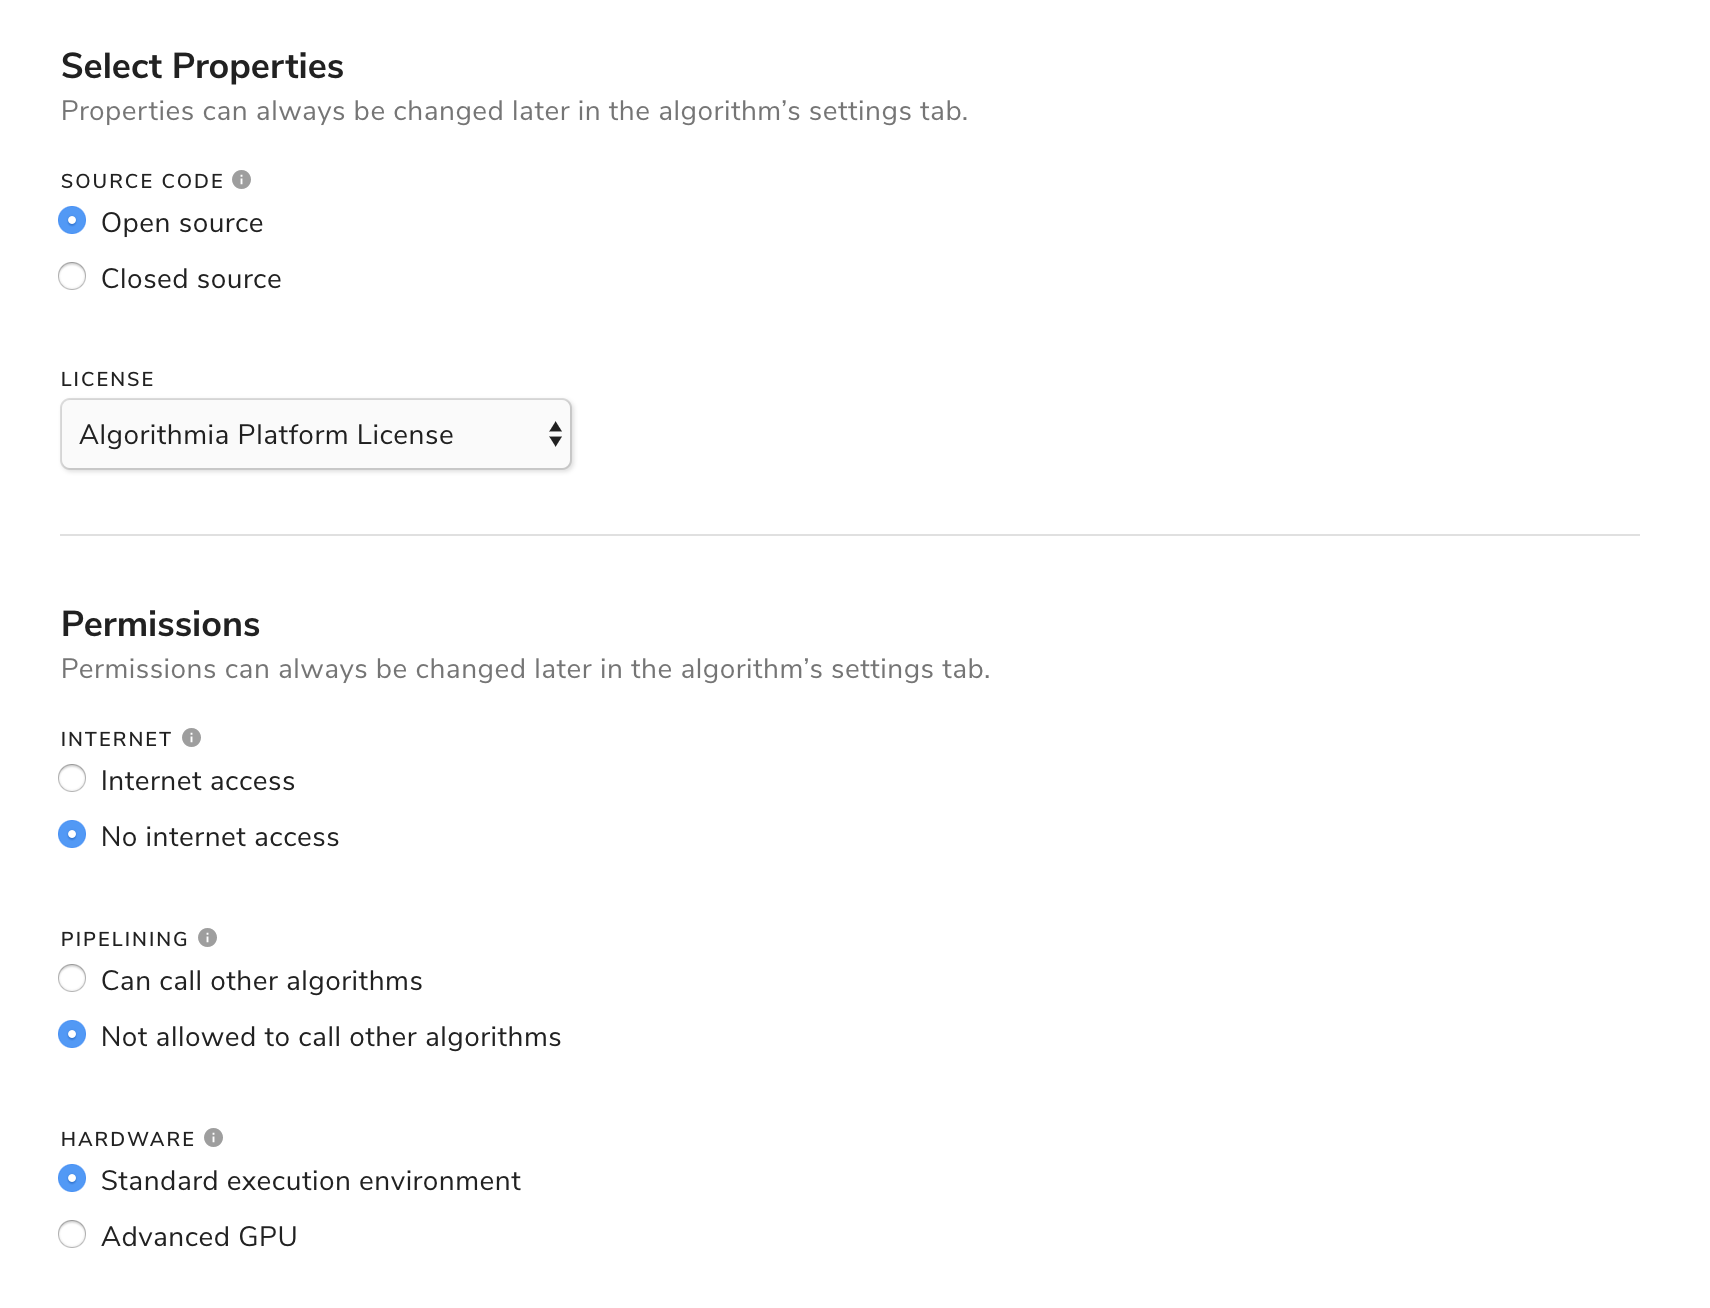
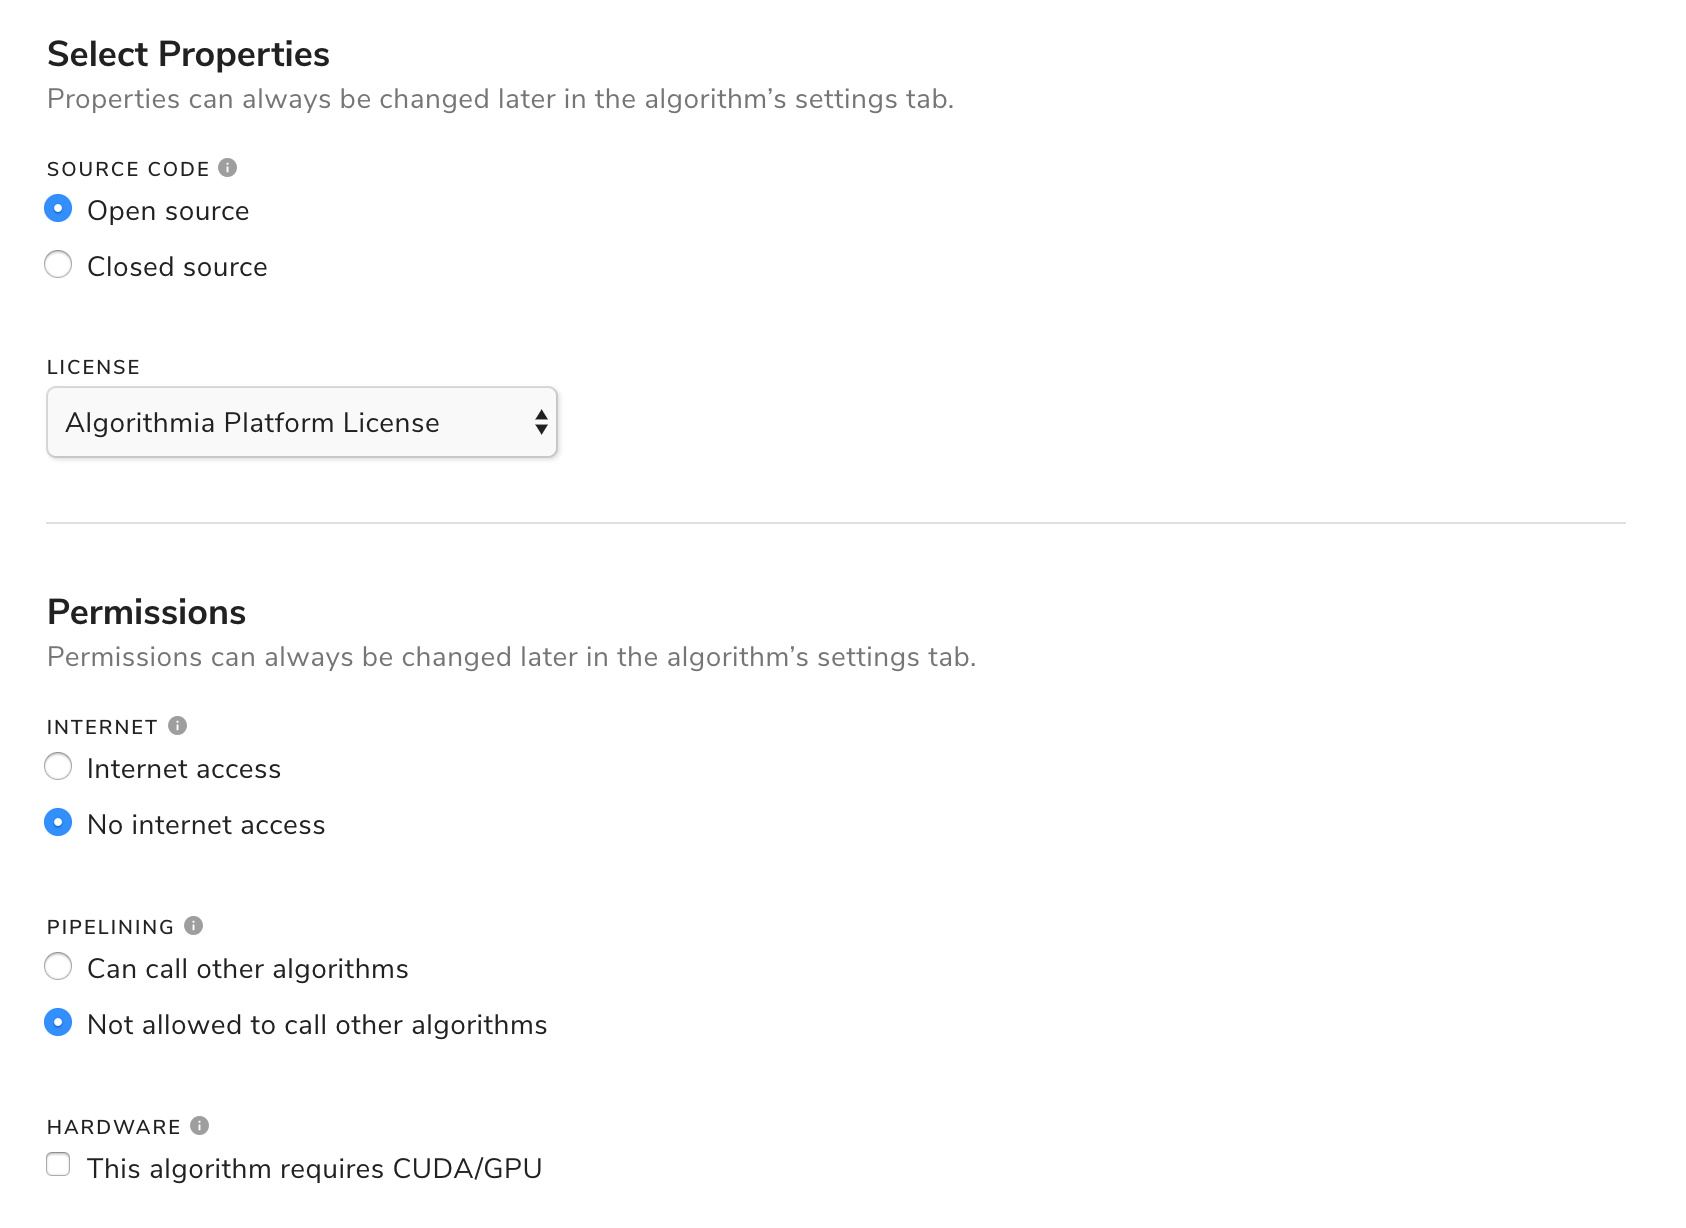
FRONTEND-893 Update image and instructions re: GPU on algo basics page.

diff --git a/_pages/algorithm-development/algorithm-basics/your-first-algo.md b/_pages/algorithm-development/algorithm-basics/your-first-algo.md
@@ -56,7 +56,7 @@ As an incentive to promote community contributions, open source algorithms that 
 
 **Special Permissions:** Next is the "Special Permissions" section that allows your algorithm to have access to the internet and allows it to call other algorithms. In this example we'll want access to the internet and since our final algorithm will call another algorithm we want to select "Can call other algorithms" as well.
 
-Also under Special Permissions, you can select "Standard execution environment" or "Advanced GPU". Since our algorithm isn't processing large amounts of data needed to run on a GPU environment, we'll select "Standard execution environment".
+Also under Special Permissions, you can enable "CUDA/GPU". Since our algorithm isn't doesn't require a GPU environment, we'll leave this disabled.
 
 You can find out more about algorithm permissions in the [Algorithm Permissions Section]({{site.baseurl}}/basics/permissions/).  Also, consider whether your algorithm would benefit from using a Graphics Processing Unit to accelerate certain kinds of computation, such as image processing and deep learning. When "Advanced GPU" is selected, the algorithm will run on servers with GPU hardware, with specific drivers and frameworks to help algorithm developers take advantage of GPU computing. This includes nvidia drivers, CUDA support, and several of the most popular deep learning frameworks, including TensorFlow, Caffe, Theano, and Torch.
 {: .notice-info}
